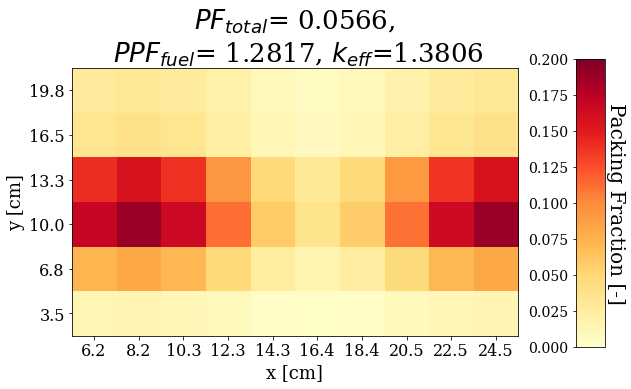
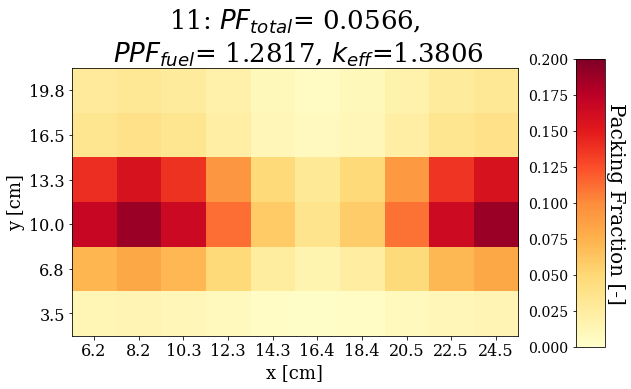
writing

Changed region(s): [[0.271, 0.0, 0.6624, 0.0925]]

diff --git a/docs/ahtr_rollo_assem_discussion.tex b/docs/ahtr_rollo_assem_discussion.tex
@@ -478,21 +478,21 @@ and thermal flux flatness for the three reactor models.
     & $max(\phi_4)/min(\phi_4)$ & \textbf{$\%$ Diff}\\
     \hline 
     Both & 5 & 0.5471 & - & 1.2986 & -\\
-    \textbf{$PF_{total}$} & 3 & 0.5472 & \Plus0.017 & 1.3168 & \Plus1.40\\
+    \textbf{$PF_{total}$} & 11 & 0.5472 & \Plus0.017 & 1.3168 & \Plus1.40\\
     \textbf{$PPF_{fuel}$} & 1 & 0.5478 & \Plus0.12 & 1.2851 & \Minus1.03\\
     \hline
     \end{tabular}
 \end{table}
-% Bold the phi 
 
 The most minimized $PPF_{fuel}$ reactor model 1 has the highest fission reaction rate, 
-followed by the most minimized $PF_{total}$ reactor model 3, and then reactor model 5 
+followed by the most minimized $PF_{total}$ reactor model 11, and then reactor model 5 
 that minimizes both $PF_{total}$ and $PPF_{fuel}$ to an equal extent.
 Reactor model 1 has the highest fisson reaction rate since it has the highest 
 $PF_{total}$.
-Reactor model 3 has a higher fission reaction rate compared to reactor model 5 despite 
-reactor model 3 having a lower $PF_{total}$.
-Reactor model 3's oscillating TRISO distribution enables a higher fission reaction rate, 
+Reactor model 11 has a higher fission reaction rate compared to reactor model 5 despite 
+reactor model 11 having a lower $PF_{total}$ ($PF_{total}=0.0566$ vs. 
+$PF_{total}=0.0591$).
+Reactor model 11's oscillating TRISO distribution enables a higher fission reaction rate, 
 and thus, a 240pcm higher $k_{eff}$ for a lower $PF_{total}$ compared to reactor model 5. 
 
 The most minimized $PPF_{fuel}$ reactor model 1 has the flattest thermal flux, followed by 
